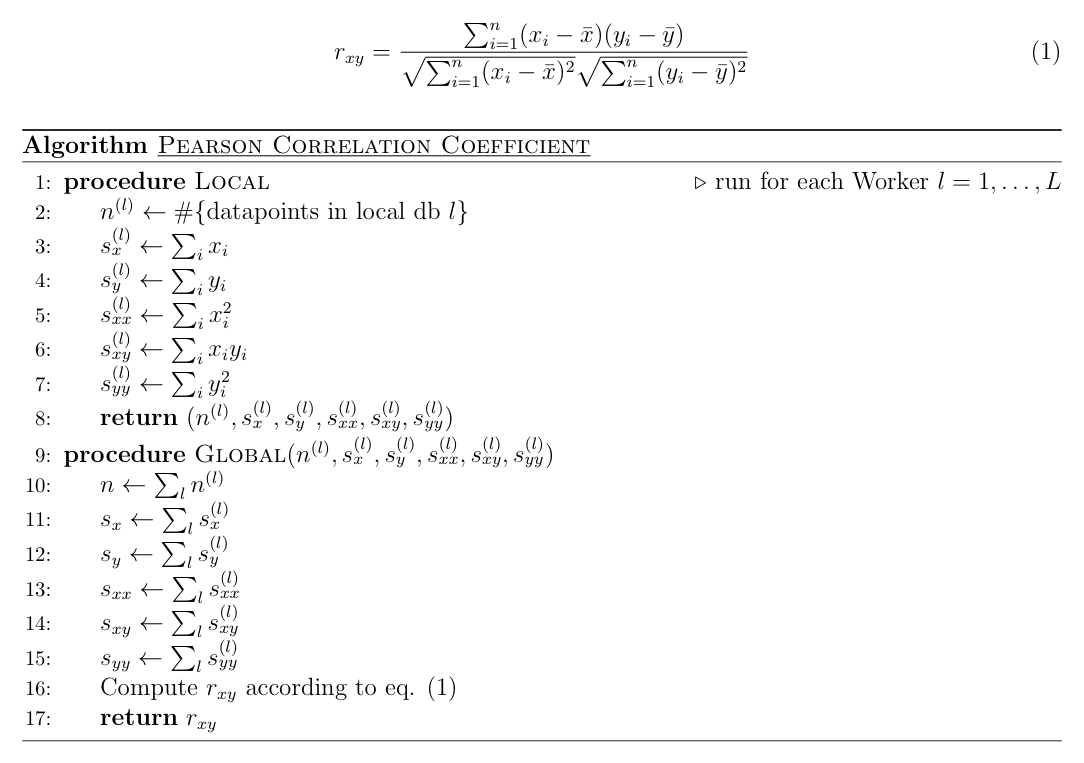
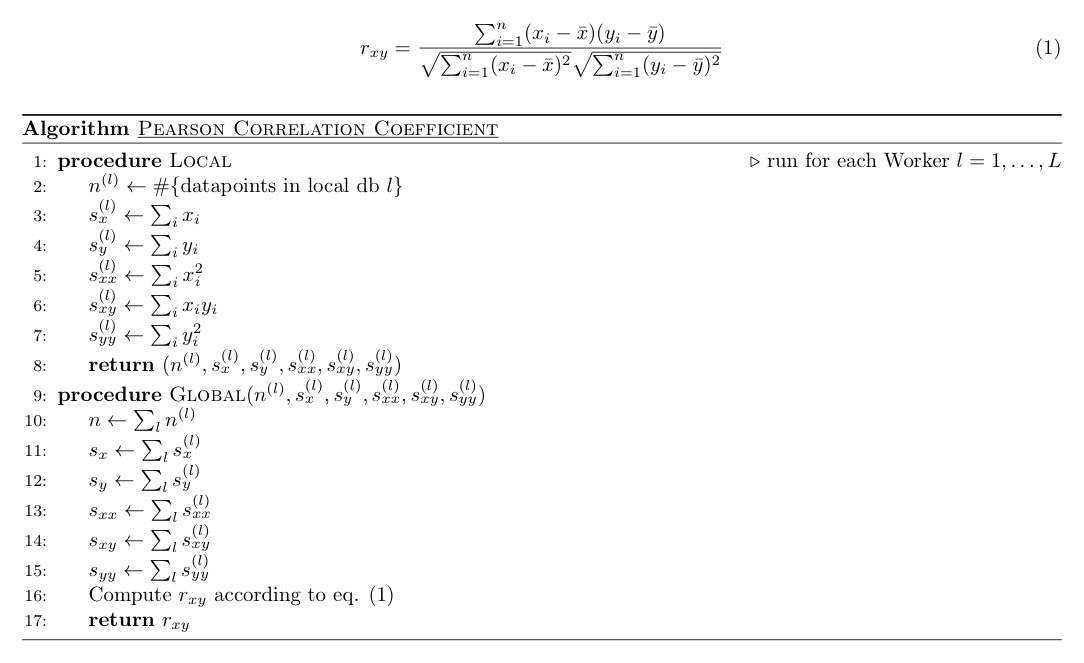
Repair broken math in .md and reduce font size in tex

diff --git a/Exareme-Docker/src/mip-algorithms/LOGISTIC_REGRESSION/pseudocode.tex b/Exareme-Docker/src/mip-algorithms/LOGISTIC_REGRESSION/pseudocode.tex
@@ -1,5 +1,5 @@
 % Set the Page Layout
-\documentclass[12pt]{article}
+\documentclass[10pt]{article}
 \usepackage[inner = 2.0cm, outer = 2.0cm, top = 2.0cm, bottom = 2.0cm]{geometry}
 
 

diff --git a/Exareme-Docker/src/mip-algorithms/PEARSON_CORRELATION/pseudocode.tex b/Exareme-Docker/src/mip-algorithms/PEARSON_CORRELATION/pseudocode.tex
@@ -1,5 +1,5 @@
 % Set the Page Layout
-\documentclass[12pt]{article}
+\documentclass[10pt]{article}
 \usepackage[inner = 2.0cm, outer = 2.0cm, top = 2.0cm, bottom = 2.0cm]{geometry}
 
 

diff --git a/Exareme-Docker/src/mip-algorithms/LOGISTIC_REGRESSION/README.md b/Exareme-Docker/src/mip-algorithms/LOGISTIC_REGRESSION/README.md
@@ -15,15 +15,15 @@ and implement them in procedures that run on Workers.
 aggregates from all Workers and implementing these parts in procedures that run on 
 Matser.
 
-Our naming convention is that procedures run on Workers are given the adjective __local__
-whereas those running on Master are called __global__.
+Our naming convention is that procedures run on Workers are given the adjective _local_
+whereas those running on Master are called _global_.
 
 #### Algorithm Description
 
 Logistic Regression training is done by Maximum Likelihood Estimation (MLE) by gradient 
 descent using, for example, Newton's method. Applying Newton's method leads to the 
 following algorithm, called __Iteratively Reweighted Least Squares__ (IRLS).  Here 
-the dependent variable $y$ has to be binary.
+the dependent variable *y* has to be binary.
 
 ![pseudo](pseudocode.png)
 

diff --git a/Exareme-Docker/src/mip-algorithms/PEARSON_CORRELATION/README.md b/Exareme-Docker/src/mip-algorithms/PEARSON_CORRELATION/README.md
@@ -15,13 +15,13 @@ and implement them in procedures that run on Workers.
 aggregates from all Workers and implementing these parts in procedures that run on 
 Matser.
 
-Our naming convention is that procedures run on Workers are given the adjective __local__
-whereas those running on Master are called __global__.
+Our naming convention is that procedures run on Workers are given the adjective _local_
+whereas those running on Master are called _global_.
 
 #### Algorithm Description
 
-This algorithm computes the Pearson correlation coefficient between two vectors $x$ and 
-$y$ using the eq.(1)
+This algorithm computes the Pearson correlation coefficient between two vectors *x* and 
+*y* using the eq.(1)
 
 ![pseudo](pseudocode.png)
 
